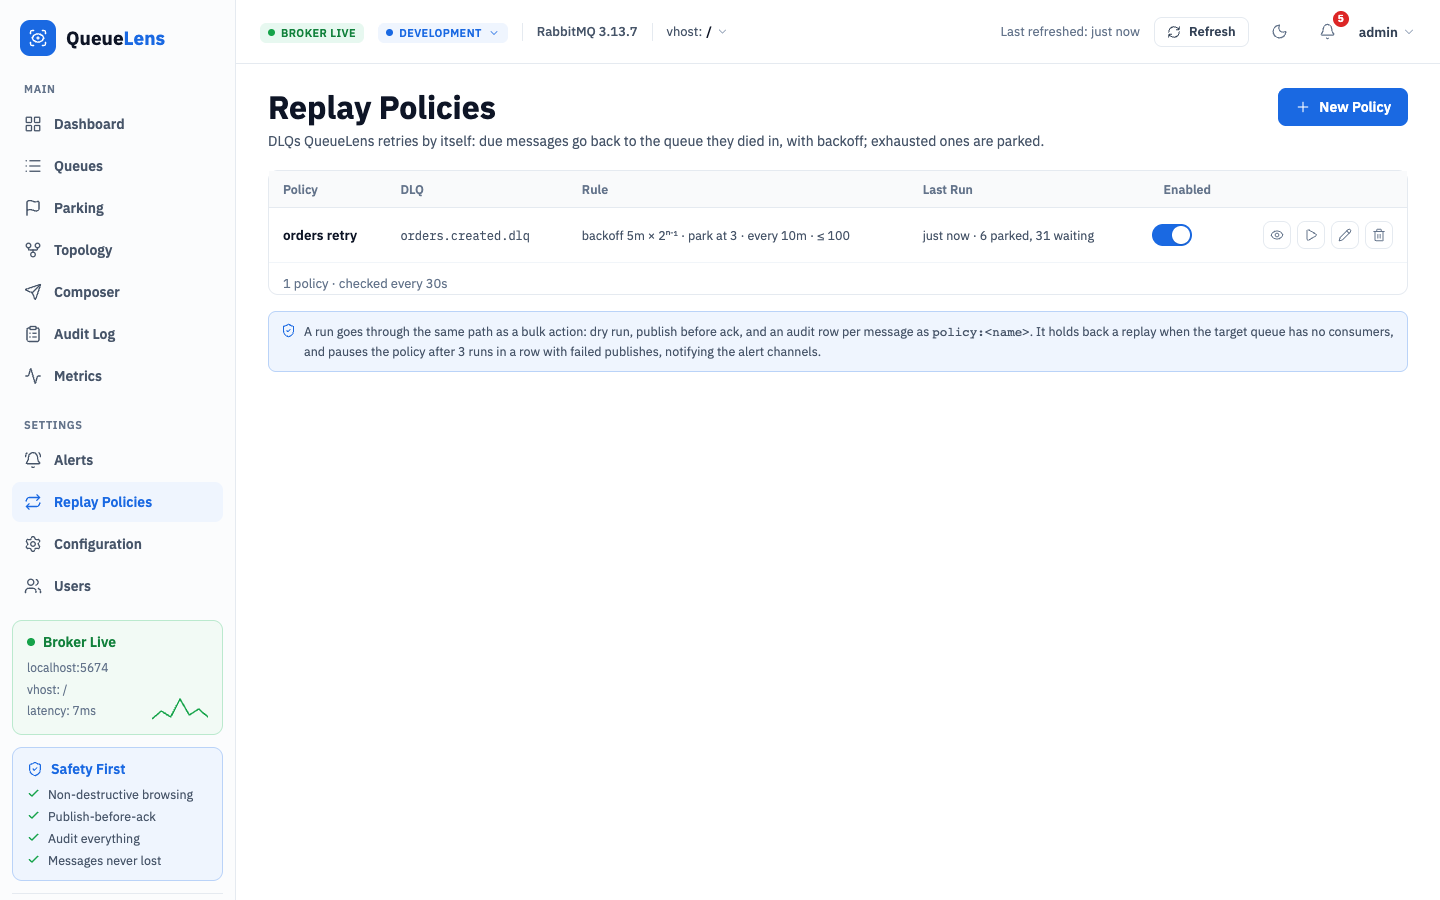
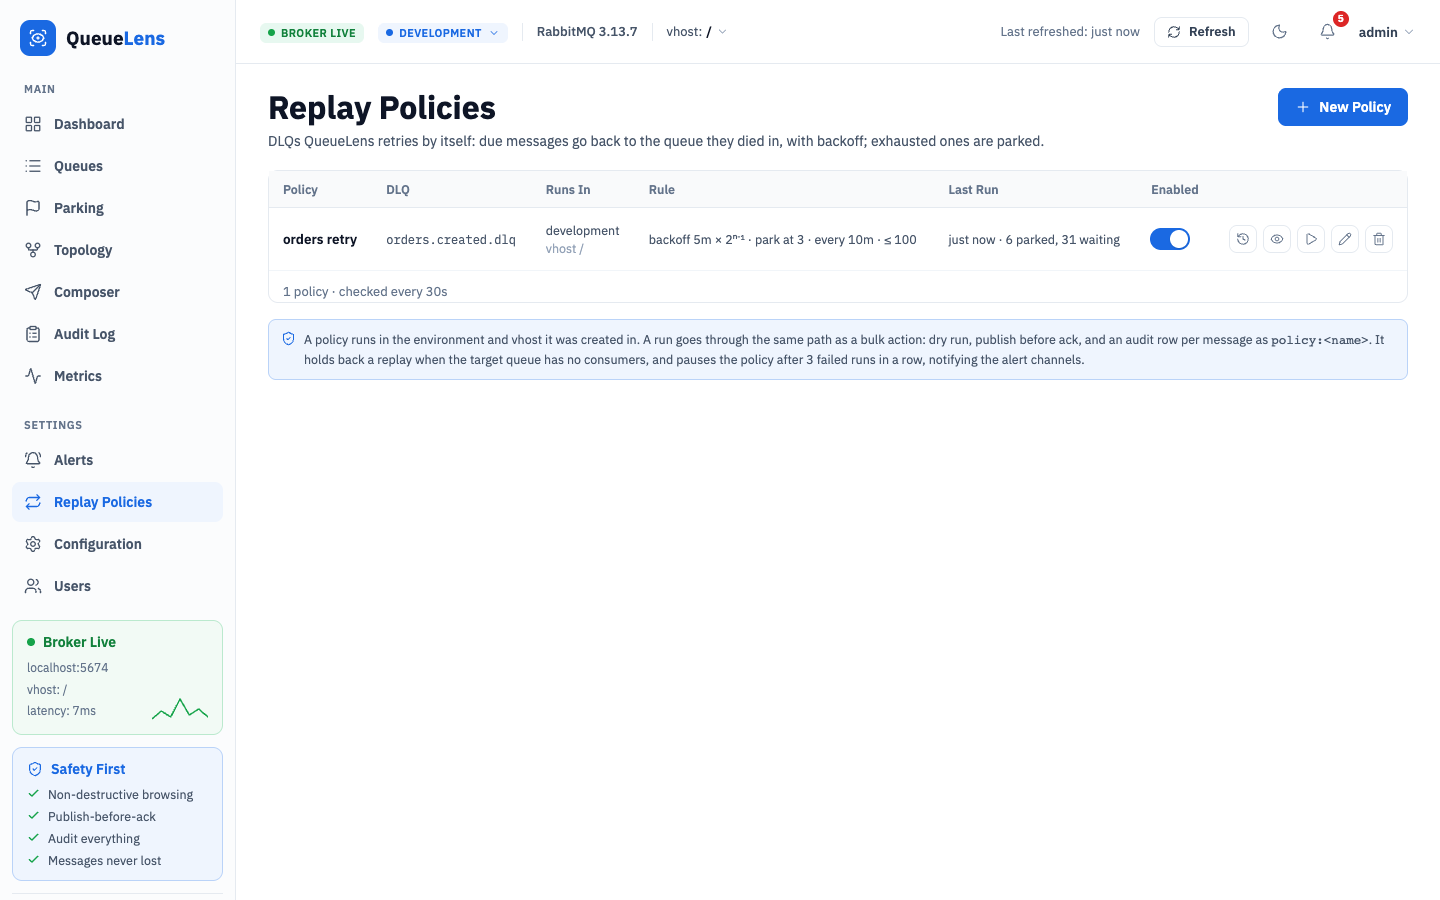
docs: refresh screenshots for Runs In, Watches and History; scope on two lines

diff --git a/app/web/static/ds/ui_kits/queuelens/Policies.jsx b/app/web/static/ds/ui_kits/queuelens/Policies.jsx
@@ -113,7 +113,7 @@
             columns={[
               { key: 'name', label: 'Policy', render: (p) => <span style={{ fontWeight: 600, color: 'var(--slate-900)', whiteSpace: 'normal' }}>{p.name}</span> },
               { key: 'queue', label: 'DLQ', render: (p) => <span style={{ fontFamily: 'var(--font-mono)', fontSize: 12, whiteSpace: 'normal', overflowWrap: 'break-word' }}>{p.queue}</span> },
-              { key: 'where', label: 'Runs In', render: (p) => <span style={{ fontSize: 12.5, color: 'var(--slate-600)', whiteSpace: 'normal' }}>{where(p)}</span> },
+              { key: 'where', label: 'Runs In', render: (p) => <span style={{ fontSize: 12.5, color: 'var(--slate-600)' }}>{p.environment}<br /><span style={{ color: 'var(--slate-400)' }}>vhost {p.vhost}</span></span> },
               { key: 'rule', label: 'Rule', render: (p) => <span style={{ fontSize: 12.5, color: 'var(--slate-600)', whiteSpace: 'normal' }}>backoff {p.backoff_minutes}m × 2ⁿ⁻¹ · park at {p.max_deaths} · every {p.interval_minutes}m · ≤ {p.cap}</span> },
               { key: 'last', label: 'Last Run', render: (p) => <span style={{ fontSize: 12.5, whiteSpace: 'normal' }}>{lastRun(p)}{p.consecutive_failures ? <StatusPill tone="danger" style={{ marginLeft: 6 }}>{p.consecutive_failures} failed in a row</StatusPill> : null}</span> },
               { key: 'on', label: 'Enabled', align: 'right', render: (p) => <span onClick={(e) => e.stopPropagation()} title={!isAdmin && !p.enabled ? 'Only an Admin can turn a policy back on' : ''}><Switch checked={p.enabled} onChange={() => (canAct && (p.enabled || isAdmin)) && toggle(p)} /></span> },

diff --git a/app/web/static/ds/ui_kits/queuelens/Alerts.jsx b/app/web/static/ds/ui_kits/queuelens/Alerts.jsx
@@ -214,7 +214,7 @@
               <DataTable rowKey="id"
                 columns={[
                   { key: 'name', label: 'Rule', render: (r) => <span style={{ fontWeight: 600, color: 'var(--slate-900)', whiteSpace: 'normal' }}>{r.name}</span> },
-                  { key: 'where', label: 'Watches', render: (r) => <span style={{ fontSize: 12.5, color: 'var(--slate-600)', whiteSpace: 'normal' }}>{r.environment} · {r.vhost}</span> },
+                  { key: 'where', label: 'Watches', render: (r) => <span style={{ fontSize: 12.5, color: 'var(--slate-600)' }}>{r.environment}<br /><span style={{ color: 'var(--slate-400)' }}>vhost {r.vhost}</span></span> },
                   { key: 'cond', label: 'Condition', render: (r) => <span style={{ fontFamily: 'var(--font-mono)', fontSize: 12, color: 'var(--slate-600)', whiteSpace: 'normal' }}>{r.pattern} · {r.metric} {r.operator} {r.threshold}{r.duration_seconds ? ` for ${Math.round(r.duration_seconds / 60)}m` : ''}</span> },
                   { key: 'severity', label: 'Severity', render: (r) => <StatusPill tone={SEV_TONE[r.severity]}>{r.severity}</StatusPill> },
                   { key: 'channels', label: 'Channels', render: (r) => <span style={{ display: 'inline-flex', flexWrap: 'wrap', gap: 5 }}>{r.channels.length ? r.channels.map((c) => <ChannelChip key={c} id={c} config={channels} />) : <span style={{ fontSize: 12, color: 'var(--slate-400)' }}>in-app only</span>}</span> },

diff --git a/CHANGELOG.md b/CHANGELOG.md
@@ -1,5 +1,12 @@
 # Changelog
 
+## Unreleased
+
+### Changed
+- **Easier-to-read scope columns.** The Alerts screen's **Watches** column and the Replay
+  Policies screen's **Runs In** column show the environment, with its vhost on a second,
+  muted line. The screenshots are refreshed to show these columns and the History button.
+
 ## v0.19.0 — 2026-10-05
 
 ### Changed
